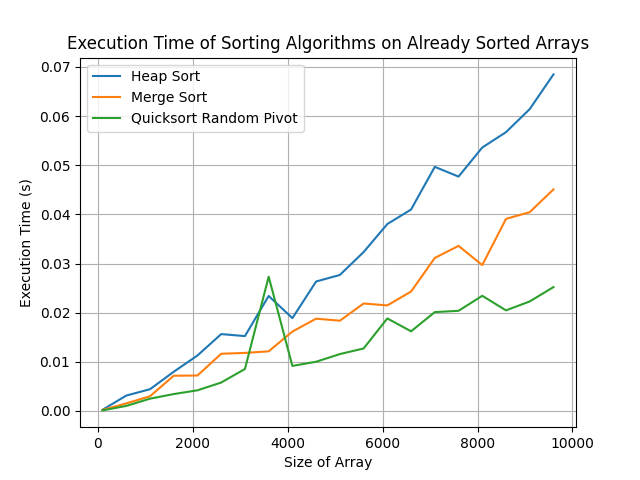
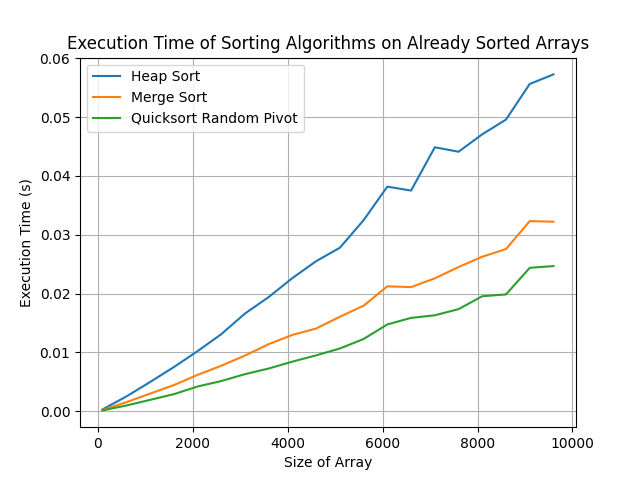
Near done

diff --git a/Homework 2/problem4.py b/Homework 2/problem4.py
@@ -1,46 +1,57 @@
 from merge_sort import merge_sort
 from heap_sort import heap_sort
-from quick_sort_rpivot import partition
 from random_pivot_quicksort import randomized_quicksort
 import time
+import random
+from tqdm import tqdm
 import matplotlib.pyplot as plt
 
+def main():
+    sizes = range(100, 10000, 500)
 
-def test_sorted_arrays(sizes):
     heap_sort_times = []
     merge_sort_times = []
     quicksort_random_pivot_times = []
 
-    for size in sizes:
-        # Generate already sorted array
-        A = list(range(size))
+    for size in tqdm(sizes):
+        #A = [random.randint(-1000, 1000) for i in range(size)]
+        A = [i for i in range(size)]
 
-        # Test Heap Sort
-        heap_sorted = list(A)
-        start_time = time.perf_counter()
-        heap_sort(heap_sorted)
-        end_time = time.perf_counter()
-        heap_sort_times.append(end_time - start_time)
+        
+        merge_sort_time = 0
+        heap_sort_time = 0
+        quick_sort_random_pivot_time = 0
 
-        # Test Merge Sort
-        merge_sorted = list(A)
-        start_time = time.perf_counter()
-        merge_sort(merge_sorted, 0, len(merge_sorted) - 1)
-        end_time = time.perf_counter()
-        merge_sort_times.append(end_time - start_time)
+        for _ in range(5):  # run each algorithm 5 times
+            # Generate already sorted array
+            
+            B = list(A)
+            start = time.perf_counter()
+            heap_sort(B)
+            end = time.perf_counter()
+            heap_sort_time += end - start
 
-        # Test Quicksort with randomly selected pivot
-        quicksort_random_pivot = list(A)
-        start_time = time.perf_counter()
-        randomized_quicksort(quicksort_random_pivot, 0, len(quicksort_random_pivot) - 1)
-        end_time = time.perf_counter()
-        quicksort_random_pivot_times.append(end_time - start_time)
+            # Test Merge Sort
+            B = list(A)
+            start = time.perf_counter()
+            merge_sort(B, 0, len(B) - 1)
+            end = time.perf_counter()
+            merge_sort_time += end - start
 
-    print(len(heap_sort_times), len(merge_sort_times), len(quicksort_random_pivot_times))
-    return heap_sort_times, merge_sort_times, quicksort_random_pivot_times
-
-
-def plot_sorted_arrays(sizes, heap_sort_times, merge_sort_times, quicksort_random_pivot_times):
+            # Test Quicksort with randomly selected pivot
+            B = list(A)
+            start = time.perf_counter()
+            randomized_quicksort(B, 0, len(B) - 1)
+            end = time.perf_counter()
+            quick_sort_random_pivot_time += end - start
+        
+        
+        # average time
+        merge_sort_times.append(merge_sort_time / 5)
+        heap_sort_times.append(heap_sort_time / 5)
+        quicksort_random_pivot_times.append(quick_sort_random_pivot_time / 5)
+        
+    
     plt.plot(sizes, heap_sort_times, label='Heap Sort')
     plt.plot(sizes, merge_sort_times, label='Merge Sort')
     plt.plot(sizes, quicksort_random_pivot_times, label='Quicksort Random Pivot')
@@ -49,9 +60,10 @@ def plot_sorted_arrays(sizes, heap_sort_times, merge_sort_times, quicksort_rando
     plt.title('Execution Time of Sorting Algorithms on Already Sorted Arrays')
     plt.legend()
     plt.grid(True)
+
+    # Save the plot in "Homework 2"
+    #plt.savefig('Homework 2/Random Pivot_SortedLists.png')
+    
     plt.show()
 
-# Test and plot
-sizes = range(100, 10000, 500)
-heap_sort_times, merge_sort_times, quicksort_random_pivot_times = test_sorted_arrays(sizes)
-plot_sorted_arrays(sizes, heap_sort_times, merge_sort_times, quicksort_random_pivot_times)
+main()

diff --git a/Homework 2/problem5.py b/Homework 2/problem5.py
@@ -16,7 +16,8 @@ def main():
 
     for size in tqdm(sizes):
         A = [random.randint(-1000, 1000) for i in range(size)]
-        
+        #A = [i for i in range(size)]
+
         qs_random_pivot_time = 0
         qs_rpivot_time = 0
         qs_median_three_time = 0
@@ -30,10 +31,9 @@ def main():
             end = time.perf_counter()
             qs_random_pivot_time += end - start
 
-
             B = list(A)  
             start = time.perf_counter()
-            quicksort_rpivot(B, 0, len(B) - 1)
+            #quicksort_rpivot(B, 0, len(B) - 1)
             end = time.perf_counter()
             qs_rpivot_time += end - start
 
@@ -57,7 +57,7 @@ def main():
     plt.legend() 
 
     # Save the plot in "Homework 2"
-    #plt.savefig('Homework 2/Quicksort_RPivot_Comparison.png')
+    plt.savefig('Homework 2/Quicksort Comparisons.png')
     
     plt.show()
 

diff --git a/Homework 2/random_pivot_quicksort.py b/Homework 2/random_pivot_quicksort.py
@@ -1,10 +1,22 @@
-from quick_sort_rpivot import partition
 import random
+
+def partition(A, p, r):
+    x = A[r]  # x is the rightmost element for pivot.
+    i = p - 1  # i is the index of the smaller element.
+
+    for j in range(p, r):
+        if A[j] <= x:
+            i += 1
+            A[i], A[j] = A[j], A[i]
+    A[i + 1], A[r] = A[r], A[i + 1]
+    return i + 1
 
 def randomized_partition(A, p, r):
     i = random.randint(p, r)
     A[i], A[r] = A[r], A[i]
     return partition(A, p, r)
+
+
 
 def randomized_quicksort(A, p, r):
     if p < r:

diff --git a/Homework 2/problem3.py b/Homework 2/problem3.py
@@ -16,7 +16,7 @@ def main():
 
     for size in tqdm(sizes):
         A = [random.randint(-1000, 1000) for i in range(size)]
-        #A = [i for i in range(size)]
+        A = [i for i in range(size)]
 
         
         merge_sort_time = 0
